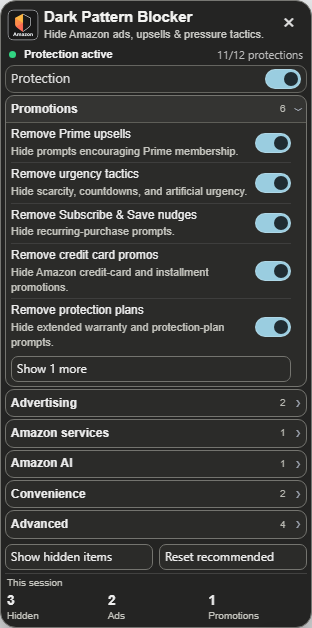
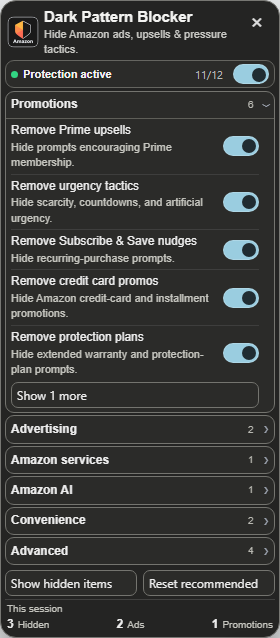
Tighten menu widths, Advanced sections and status layout

Changed region(s): [[0.0, 0.0, 1.0, 1.0]]

diff --git a/amazon-dark-pattern-blocker.user.js b/amazon-dark-pattern-blocker.user.js
@@ -2132,7 +2132,7 @@
 
   z-index: 2147483001 !important;
 
-  width: 312px !important;
+  width: 280px !important;
   max-width: calc(100vw - 24px) !important;
   max-height: calc(100vh - 96px) !important;
 
@@ -2757,7 +2757,7 @@
         #${this.BTN_ID},#${this.PANEL_ID},#${this.LABEL_ID}{pointer-events:auto!important}
         #${this.BTN_ID}{right:16px!important;border-radius:13px!important;border:1px solid #ffffff33!important;background:#121722!important;box-shadow:0 5px 18px #0006!important}
         #${this.BTN_ID} img{display:block!important;width:40px!important;height:40px!important;max-width:40px!important;max-height:40px!important;object-fit:contain!important;pointer-events:none!important}
-        #${this.PANEL_ID}{width:min(312px,calc(100vw - 32px))!important;max-height:calc(100dvh - 24px)!important;padding:0!important;background:#282826!important;color:#ddd!important;font:13px/1.4 system-ui,sans-serif!important;border:1px solid #ffffff22!important;box-shadow:0 16px 40px #0007!important}
+        #${this.PANEL_ID}{width:min(280px,calc(100vw - 32px))!important;max-height:calc(100dvh - 24px)!important;padding:0!important;background:#282826!important;color:#ddd!important;font:13px/1.4 system-ui,sans-serif!important;border:1px solid #ffffff22!important;box-shadow:0 16px 40px #0007!important}
         #${this.PANEL_ID} .adpb-header{padding:14px 18px 10px!important;margin:0!important}
         #${this.PANEL_ID} .adpb-title{font-size:15px!important;color:#ddd!important}
         #${this.PANEL_ID} .adpb-subtitle{font-size:12px!important;color:#bbb!important}
@@ -2840,7 +2840,7 @@
         #${this.PANEL_ID} .adpb-foot{padding:2px 2px 0!important;font:10px/1.4 Arial,sans-serif!important;color:#c5c5bf!important}
         #${this.PANEL_ID} .adpb-foot{display:block!important;border-top:1px solid #ffffff22!important;margin-top:3px!important}
         #${this.PANEL_ID} .adpb-footer-stats{display:grid!important;grid-template-columns:repeat(3,minmax(0,1fr))!important;gap:4px!important;margin-top:1px!important}
-        #${this.PANEL_ID} .adpb-footer-stat-value{display:block!important;font:700 14px/1.3 Arial,sans-serif!important;color:#eee!important;font-variant-numeric:tabular-nums!important}
+        #${this.PANEL_ID} .adpb-footer-stat-value{display:inline!important;margin-right:4px!important;font:700 12px/1.3 Arial,sans-serif!important;color:#eee!important;font-variant-numeric:tabular-nums!important}
         #${this.PANEL_ID}:is(.adpb-sheet,.adpb-short) .adpb-foot{display:block!important}
         #${this.PANEL_ID}:is(.adpb-sheet,.adpb-short) .adpb-subtitle{display:block!important}
         #${this.PANEL_ID}.adpb-short .adpb-footer-caption{display:none!important}
@@ -2851,8 +2851,15 @@
         #${this.PANEL_ID}.adpb-high-contrast :is(.adpb-section,.adpb-master,.adpb-submenu,.adpb-action){background:#000!important;border-color:#fff!important}
         #${this.PANEL_ID}.adpb-high-contrast .adpb-switch-input[aria-checked=true]{background:white!important}
         #${this.PANEL_ID}.adpb-high-contrast .adpb-switch-input[aria-checked=true]::after{background:black!important}
-        #${this.PANEL_ID} .adpb-submenu{margin-top:2px!important}
-        #${this.PANEL_ID} .adpb-submenu-content{padding:0 4px 2px!important}
+        #${this.PANEL_ID} .adpb-submenu{margin-top:0!important;border:0!important;border-radius:0!important}
+        #${this.PANEL_ID} .adpb-submenu+.adpb-submenu{border-top:1px solid #ffffff22!important}
+        #${this.PANEL_ID} .adpb-submenu-toggle{padding:2px 0!important}
+        #${this.PANEL_ID} .adpb-submenu-content{padding:0 0 2px!important}
+        #${this.PANEL_ID} .adpb-submenu :is(.adpb-preferences,.adpb-stats){padding:0!important}
+        #${this.PANEL_ID} .adpb-master-copy{flex:1!important;min-width:0!important}
+        #${this.PANEL_ID} .adpb-master .adpb-status{display:flex!important;gap:5px!important;padding:0!important;border:0!important}
+        #${this.PANEL_ID} .adpb-master .adpb-status-detail{margin-left:auto!important;font-size:11px!important}
+        #${this.PANEL_ID} .adpb-footer-stats{grid-template-columns:auto auto auto!important;justify-content:space-between!important}
         #${this.PANEL_ID} :is(.adpb-action,.adpb-show-more,.adpb-clear-stats){min-height:26px!important;padding:2px 5px!important;margin-top:2px!important}
         #${this.PANEL_ID} .adpb-category-picker{margin:3px 0!important;min-height:28px!important}
         #${this.PANEL_ID}.adpb-sheet .adpb-header{padding-top:14px!important}
@@ -3084,7 +3091,6 @@
         detail: statusDetail,
       };
 
-      panel.appendChild(status);
 
       const master =
         document.createElement("div");
@@ -3098,28 +3104,7 @@
       masterCopy.className =
         "adpb-master-copy";
 
-      const masterTitle =
-        document.createElement("div");
-
-      masterTitle.className =
-        "adpb-master-title";
-
-      masterTitle.textContent =
-        "Protection";
-
-      const masterDescription =
-        document.createElement("div");
-
-      masterDescription.className =
-        "adpb-master-description";
-
-      masterDescription.textContent =
-        "Enable or disable all protections";
-
-      masterCopy.appendChild(masterTitle);
-      masterCopy.appendChild(
-        masterDescription,
-      );
+      masterCopy.appendChild(status);
 
       const masterInput =
         this.makeSwitch("Protection");
@@ -3851,7 +3836,7 @@
 
       this.statusNode.detail.textContent =
         enabled
-          ? `${count}/${total} protections`
+          ? `${count}/${total}`
           : "All protections off";
 
       this.statusNode.container.classList.toggle(
@@ -4579,7 +4564,7 @@
         const set = (name, value) => panel.style.setProperty(name, value, "important");
         const available = Math.max(0, height - (sheet ? 8 : 24));
         set("max-height", available + "px");
-        set("width", (sheet ? width : Math.min(312, width - 24)) + "px");
+        set("width", (sheet ? Math.min(360, width) : Math.min(280, width - 24)) + "px");
         set("max-width", (sheet ? width : width - 24) + "px");
         set("right", "auto");
         set("bottom", "auto");
@@ -4593,7 +4578,7 @@
           Math.max(topEdge + 12, Math.min(
             side === "above" ? br.top - ph - 8 : br.bottom + 8,
             topEdge + height - ph - 12));
-        let x = sheet ? left : left + width - pw - 12;
+        let x = sheet ? left + (width - pw) / 2 : left + width - pw - 12;
         // A growing panel can use the full viewport; leave the launcher reachable.
         if (!sheet && top < br.bottom + 8 && top + ph > br.top - 8) {
           x = Math.max(left + 12, Math.min(x, br.left - pw - 8));

diff --git a/README.md b/README.md
@@ -20,13 +20,14 @@ Remove common Amazon dark patterns while keeping control over the protections yo
 - Display options and per-session blocked-item counts live under Advanced as nested menus.
 - Optional quiet update checks use release metadata only and never download executable code.
 - Clear stats sits with session stats; Reset recommended stays at the panel foot.
-- Compact 312px charcoal menu with denser spacing, accessible toggle buttons and descriptions.
+- Compact 280px charcoal menu with denser spacing, accessible toggle buttons and descriptions.
 - Compact icon header, rounded category rows and sentence-case labels keep the menu easy to scan.
+- Protection status shares one row with its master switch; Advanced submenus use light separators and minimal inset spacing.
 - A short header explains the script; the footer shows live session counts for hidden items, ads and promotions.
 - Show hidden items temporarily restores ADPB-hidden elements dimmed; hover or keyboard focus restores full contrast. Hide revealed items reapplies hiding without changing saved protections. Inspection ends on reload and does not undo clicks or other non-visual actions.
 - Adaptive menu placement chooses the roomier side of the launcher and shifts upward as content expands.
 - The title, close button and category navigation remain visible; overflow scrolls inside the expanded section.
-- Small screens use a full-width bottom sheet. Very short viewports use a category selector to leave room for settings.
+- Small screens use a centered bottom sheet up to 360px wide. Very short viewports use a category selector to leave room for settings.
 - High-contrast switches and automatic system reduced-motion support.
 - Remembered launcher placement, including a preferred position beside a page control.
 - Versioned settings are validated and migrated automatically when updating.

diff --git a/CHANGELOG.md b/CHANGELOG.md
@@ -1,5 +1,12 @@
 # Changelog
 
+## Unreleased
+
+- Narrow desktop menus to 280px and center mobile sheets with a 360px maximum width.
+- Combine protection status and the master switch in one row.
+- Remove nested Advanced menu borders and padding; keep light separators between groups.
+- Put footer counts beside their labels to reduce height.
+
 ## 1.1.0
 
 - Add temporary dimmed reveal mode for hidden elements, with full contrast on hover or keyboard focus. Saved protections remain unchanged.
